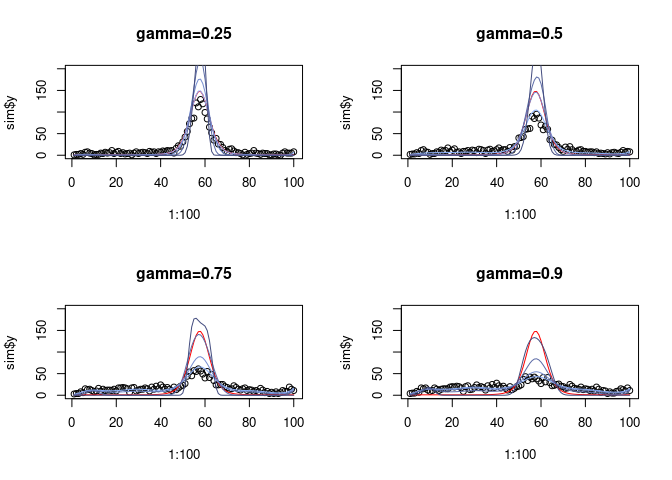
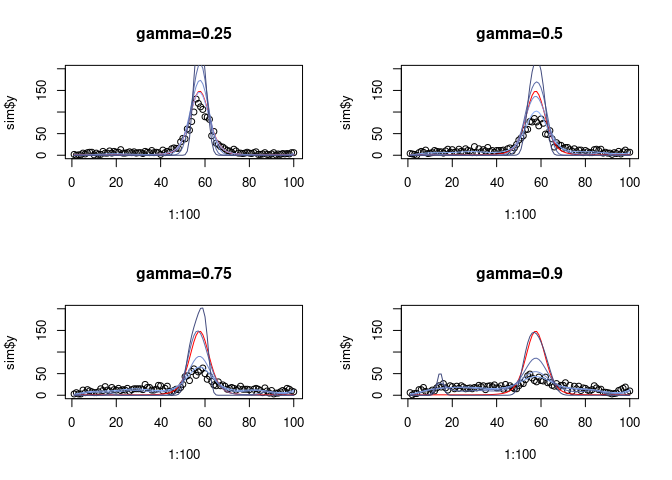
update vignettes

diff --git a/vignettes/simulations.md b/vignettes/simulations.md
@@ -10,9 +10,9 @@ Deconvolution simulations
     id="toc-signal-strength-estimation">Signal strength estimation</a>
     -   <a href="#kcnq1ot1-like-1mb-domain"
         id="toc-kcnq1ot1-like-1mb-domain">Kcnq1ot1-like 1mb domain</a>
--   <a href="#sensitivity-specificity-precision-mad-all-in-one-plot"
-    id="toc-sensitivity-specificity-precision-mad-all-in-one-plot">Sensitivity,
-    specificity, precision, MAD all in one plot</a>
+-   <a href="#sensitivity-specificity-precision-rmse-all-in-one-plot"
+    id="toc-sensitivity-specificity-precision-rmse-all-in-one-plot">Sensitivity,
+    specificity, precision, RMSE all in one plot</a>
     -   <a href="#mb-domain" id="toc-mb-domain">10mb domain</a>
 -   <a href="#runtime" id="toc-runtime">Runtime</a>
     -   <a href="#fixed-df-vary-window-size"
@@ -59,7 +59,6 @@ library(gridExtra)
 library(pracma)
 library(dcon)
 set.seed(13579)
-B <- 100 # number of replicates to use for each simulation
 ```
 
 # DNA-DNA matrix
@@ -147,10 +146,12 @@ sim_localization <- function(B, len,
       next
     }
     fit <- fit_decon(sim$y, ddnorm_fit, df=df_fit)
+    rawfit <- fit_decon(sim$y, diag(len), df=df_fit)
     y <- as.numeric(exp(sim$B%*%sim$a))
     y_hat <- exp(fit$est)
+    y_hat_raw <- exp(rawfit$est)
     true_peaks <- findpeaks(y, minpeakheight = quantile(y, 0.9))
-    raw_peaks <- findpeaks(sim$y, minpeakheight = quantile(sim$y, 0.9))
+    raw_peaks <- findpeaks(y_hat_raw, minpeakheight = quantile(y_hat_raw, 0.9))
     fit_peaks <- findpeaks(y_hat, minpeakheight = quantile(y_hat, 0.9))
     if (is.null(true_peaks)) {
       next
@@ -211,7 +212,7 @@ sim_metrics <- function(B, len,
                         ddnorm_true, ddnorm_fit,
                         label = '') {
   replicate(B, {
-    sim <- sim_localization(B=10, len, df_true, df_fit, ddnorm_true, ddnorm_fit, '')
+    sim <- sim_localization(B=100, len, df_true, df_fit, ddnorm_true, ddnorm_fit, '')
     sim <- colSums(sim)
     z <- c(sim[1]/(sim[1]+sim[4]), sim[1]/(sim[1]+sim[2]),
            sim[5]/(sim[5]+sim[8]), sim[5]/(sim[5]+sim[6]))
@@ -223,6 +224,8 @@ sim_metrics <- function(B, len,
 ```
 
 ``` r
+# These take a long time to run so i did it on the cluster with B=1000
+B=1000
 ddnorm <- normalize_hic(dd1, gamma=0.9)
 # correctly specified
 res <- sim_metrics(B, 100, 10, 10, ddnorm, ddnorm, label = 'Correct-spec')
@@ -267,10 +270,12 @@ sim_signal_strength <- function(B, len,
     }
     nreps <- nreps + 1
     fit <- fit_decon(sim$y, ddnorm_fit, df=df_fit)
+    fit_raw <- fit_decon(sim$y, diag(len), df=df_fit)
     y <- exp(sim$B%*%sim$a)
     y_hat <- exp(fit$est)
+    y_hat_raw <- exp(fit_raw$est)
     results[nreps,] <- c(sqrt(mean((y-y_hat)**2)), median(abs(y-y_hat)),
-                         sqrt(mean((y-sim$y)**2)), median(abs(y-sim$y)))
+                         sqrt(mean((y-y_hat_raw)**2)), median(abs(y-y_hat_raw)))
   }
   return(results)
 }
@@ -279,6 +284,7 @@ sim_signal_strength <- function(B, len,
 ## Kcnq1ot1-like 1mb domain
 
 ``` r
+B <- 1000
 ddnorm <- normalize_hic(dd1, gamma=0.9)
 # correctly specified
 res <- sim_signal_strength(B, 100, 10, 10, ddnorm, ddnorm, 'Correct-spec')
@@ -302,14 +308,14 @@ res <- sim_signal_strength(B, 100, 10, 10, ddnorm, ddnorm2, 'g-high')
 allres2 <- cbind(allres2, res)
 ```
 
-# Sensitivity, specificity, precision, MAD all in one plot
+# Sensitivity, specificity, precision, RMSE all in one plot
 
 ``` r
 data.frame(allres2) |>
   pivot_longer(cols = everything()) |>
   separate(name, into = c('fit','metric', 'sim'), sep='_') |>
-  filter(metric == 'MAD') |>
-  mutate(metric = 'Median absolute deviation') |>
+  filter(metric == 'RMSE') |>
+  mutate(metric = 'RMSE') |>
   bind_rows(
     data.frame(t(allres)) |>
       pivot_longer(cols = everything()) |>
@@ -318,7 +324,7 @@ data.frame(allres2) |>
   mutate(sim = gsub('\\.','\n',sim)) |>
   ggplot(aes(x = sim, y = value)) +
   geom_boxplot(aes(fill = fit)) +
-  scale_fill_manual(name = '', breaks = c('Raw','Fit'), values = c('white','royalblue1'), labels = c('Observed', 'Deconvolved')) +
+  scale_fill_manual(name = '', breaks = c('Raw','Fit'), values = c('white','royalblue1'), labels = c('Observed smoothed', 'Deconvolved')) +
   facet_wrap(metric ~ ., scales = 'free_y', nrow=1) +
   theme_minimal() +
   theme(panel.border = element_rect(color = "gray 50", fill = NA),
@@ -328,9 +334,46 @@ data.frame(allres2) |>
         legend.position = 'bottom') +
   xlab('Simulation Condition') +
   ylab('')
+ggsave('simulation-metrics.pdf', height=3, width=6.5)
 ```
 
-![](simulations_files/figure-gfm/unnamed-chunk-10-1.png)
+``` r
+# (version where i ran it with B=1000 on the cluster)
+allres <- NULL
+for (i in 1:6) {
+  res <- readRDS(paste0('../paper/run_loc_sim_result_',i,'.rds'))
+  if (is.null(allres)) {
+    allres <- res
+  } else {
+    allres <- rbind(allres, res)
+  }
+}
+data.frame(allres2) |>
+  pivot_longer(cols = everything()) |>
+  separate(name, into = c('fit','metric', 'sim'), sep='_') |>
+  filter(metric == 'RMSE') |>
+  mutate(metric = 'RMSE') |>
+  bind_rows(
+    data.frame(t(allres)) |>
+      pivot_longer(cols = everything()) |>
+      separate(name, into = c('fit','metric', 'sim'), sep='_')
+  ) |>
+  mutate(sim = gsub('\\.','\n',sim)) |>
+  ggplot(aes(x = sim, y = value)) +
+  geom_boxplot(aes(fill = fit), outlier.size=0.25) +
+  scale_fill_manual(name = '', breaks = c('Raw','Fit'), values = c('white','royalblue1'), labels = c('Observed smoothed', 'Deconvolved')) +
+  facet_wrap(metric ~ ., scales = 'free_y', nrow=1) +
+  theme_minimal() +
+  theme(panel.border = element_rect(color = "gray 50", fill = NA),
+        panel.grid.major = element_blank(),
+        panel.grid.minor = element_blank(),
+        axis.ticks = element_line(color='gray 50'),
+        legend.position = 'top') +
+  xlab('Simulation Condition') +
+  ylab('')
+```
+
+![](simulations_files/figure-gfm/unnamed-chunk-11-1.png)
 
 ``` r
 ggsave('simulation-metrics.pdf', height=3, width=6.5)
@@ -427,7 +470,8 @@ sessionInfo()
     [55] cli_3.4.1              stringi_1.7.8          farver_2.1.1          
     [58] XVector_0.38.0         reshape2_1.4.4         ragg_1.2.4            
     [61] ellipsis_0.3.2         generics_0.1.3         vctrs_0.5.1           
-    [64] spatstat.utils_3.0-1   tools_4.2.2            glue_1.6.2            
-    [67] purrr_0.3.5            abind_1.4-5            fastmap_1.1.0         
-    [70] yaml_2.3.6             spatstat.sparse_3.0-0  colorspace_2.0-3      
-    [73] GenomicRanges_1.50.1   spatstat.geom_3.0-3    knitr_1.41            
+    [64] spatstat.utils_3.0-1   RColorBrewer_1.1-3     tools_4.2.2           
+    [67] glue_1.6.2             purrr_0.3.5            abind_1.4-5           
+    [70] fastmap_1.1.0          yaml_2.3.6             spatstat.sparse_3.0-0 
+    [73] colorspace_2.0-3       GenomicRanges_1.50.1   spatstat.geom_3.0-3   
+    [76] knitr_1.41            

diff --git a/vignettes/demo_1d.md b/vignettes/demo_1d.md
@@ -54,13 +54,13 @@ library(gridExtra)
 
 ``` r
 library(dcon)
-set.seed(13579)
+set.seed(4)
 ```
 
 # Quick start
 
-We first provide a quick example to show how the method works. For more
-details, see everything below the quick start section.
+We first provide a quick, self-contained example to show how the method
+works. For more details, see everything below the quick start section.
 
 Here, we use a small sample of the RD-SPRITE data
 ([GSE151515](https://www.ncbi.nlm.nih.gov/geo/query/acc.cgi?acc=GSE151515)).
@@ -68,6 +68,8 @@ Here, we use a small sample of the RD-SPRITE data
 We focus on the lncRNA *Airn* which is a part of the *Igf2r* imprinted
 cluster on chromosome 17 (mm10) and is thought to orchestrate silencing
 of the gene *Slc22a3*.
+
+Zoom-in on the first 30mb of chr17, which contains the *Airn* locus.
 
 ``` r
 airn <- fread('/rafalab/lzou/rdsprite/count_windows/Airn_RNA_count_windows_10000_clusters_2-1000_chr17_129S1_SvImJ.csv') |>
@@ -243,12 +245,14 @@ for (g in c(0.25, 0.5, 0.75, 0.95)) {
   fit0.5 <- fit_decon(sim$y, normalize_hic(dd, gamma = 0.5, smooth = T), df = 10)
   fit0.75 <- fit_decon(sim$y, normalize_hic(dd, gamma = 0.75, smooth = T), df = 10)
   fit0.95 <- fit_decon(sim$y, normalize_hic(dd, gamma = 0.95, smooth = T), df = 10)
+  fit_smooth <- fit_decon(sim$y, diag(100), df=10)
   plot(1:100, sim$y, ylim=c(0,200), main = paste0('gamma=',g))
   lines(1:100, exp(sim$B%*%sim$a), col='red')
   lines(1:100, exp(fit0.25$est), col='#8cb0fb')
   lines(1:100, exp(fit0.5$est), col='#748cd0')
   lines(1:100, exp(fit0.75$est), col='#5b6aa6')
   lines(1:100, exp(fit0.95$est), col='#424b7e')
+  lines(1:100, exp(fit_smooth$est), col='black')
 }
 ```
 
@@ -261,15 +265,17 @@ dd <- data.frame(
   pos = 1:100,
   observed = sim$y,
   true = exp(sim$B%*%sim$a),
-  fit = exp(fit0.95$est)
+  fit = exp(fit0.95$est),
+  fit_smooth = exp(fit_smooth$est)
 ) |>
-  pivot_longer(cols = c(observed:fit), names_to = 'type', values_to = 'signal') |>
+  pivot_longer(cols = c(observed:fit_smooth), names_to = 'type', values_to = 'signal') |>
   mutate(color = case_when(
     type == 'true' ~ 'red',
-    type == 'observed' ~ 'black',
-    type == 'fit' ~ 'royalblue1'
+    type == 'observed' ~ 'gray',
+    type == 'fit' ~ 'royalblue1',
+    type == 'fit_smooth' ~ 'black'
   )) |>
-  mutate(type = factor(type, levels = c('true','observed','fit'), labels = c('True signal', 'Observed data', 'Deconvolved signal')))
+  mutate(type = factor(type, levels = c('true','observed','fit', 'fit_smooth'), labels = c('True signal', 'Observed data', 'Deconvolved signal', 'Observed smoothed')))
 
 p1 <- dd |>
   filter(type == 'True signal') |>
@@ -289,6 +295,7 @@ p2 <- dd |>
   filter(type == 'Observed data') |>
   ggplot(aes(x = pos, y = signal, color = color)) +
   geom_point(size=0.5) +
+  geom_line(data = dd |> filter(type == 'Observed smoothed'), aes(group=color)) +
   scale_color_identity() +
   theme_minimal() +
   theme(axis.text.x = element_blank(),
@@ -304,6 +311,7 @@ p3 <- dd |>
   geom_point(size=0.5) +
   geom_line() +
   geom_point(data = dd |> filter(type == 'Observed data'), size=0.5) +
+  geom_line(data = dd |> filter(type == 'Observed smoothed'), aes(group=color)) +
   theme_minimal() +
   scale_color_identity(guide = 'legend',
                        breaks = 'royalblue1',
